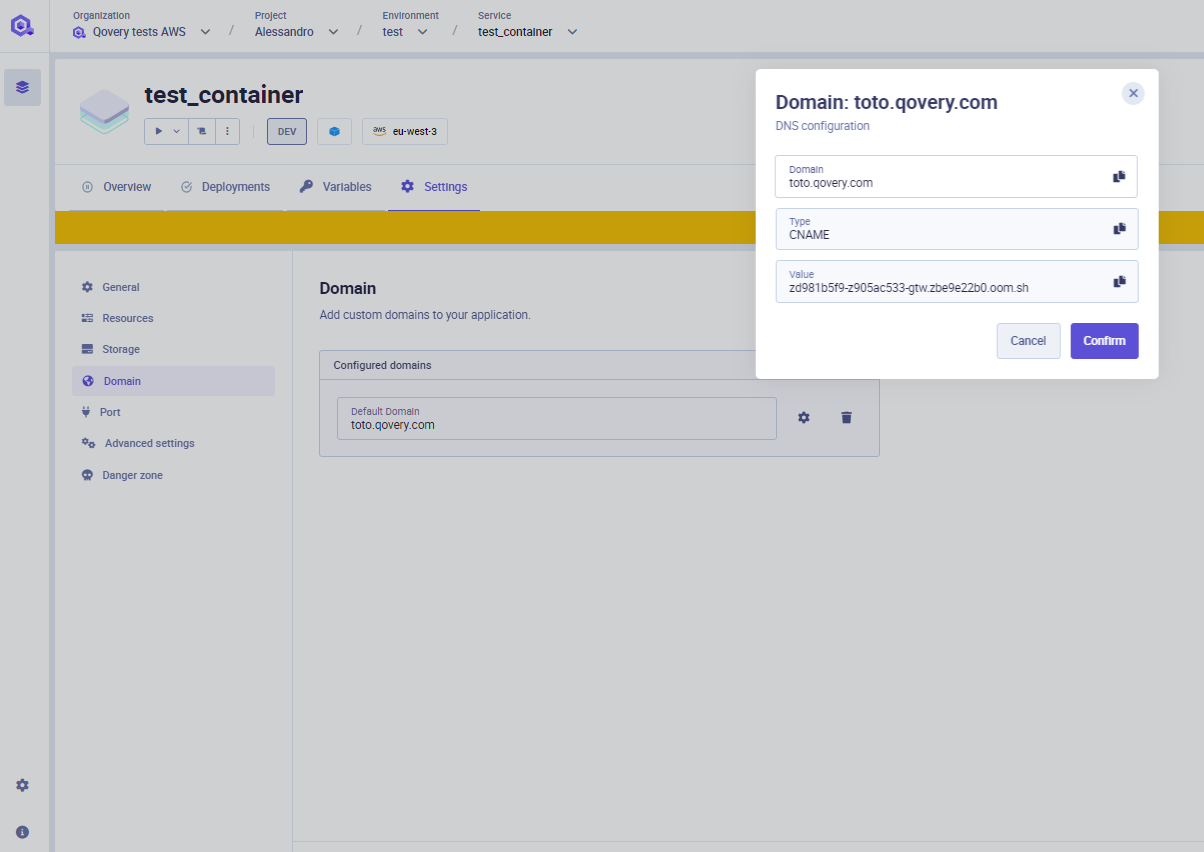
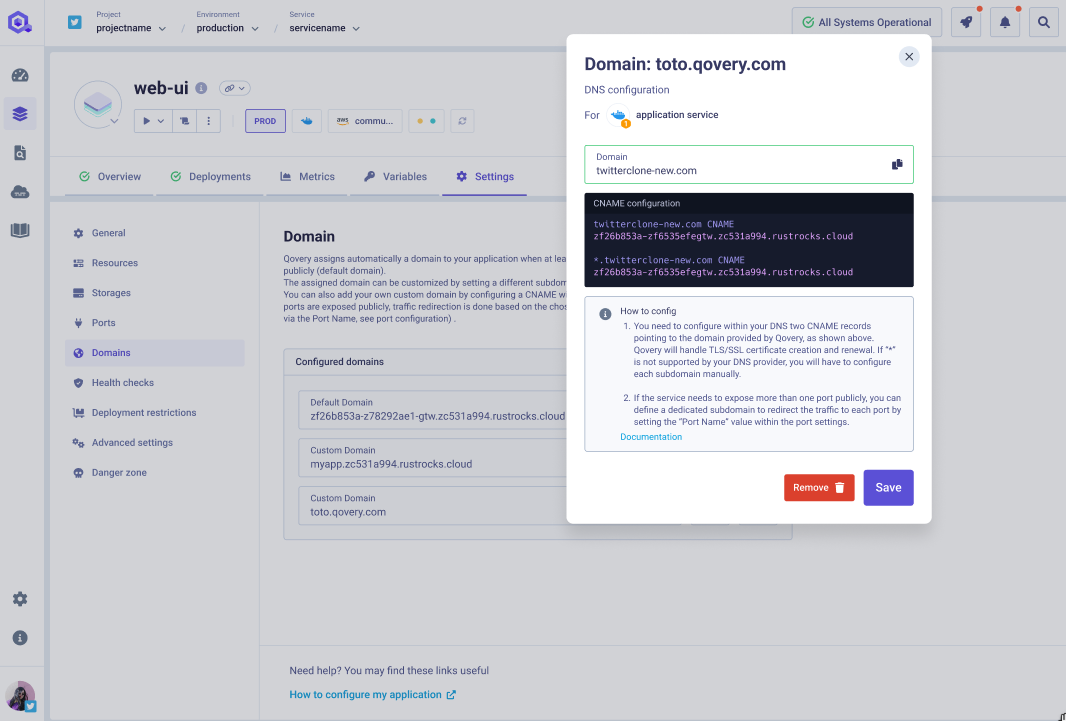
rewritten section adding protocol, port name and more explanations

diff --git a/website/docs/using-qovery/configuration/application.md b/website/docs/using-qovery/configuration/application.md
@@ -1,5 +1,5 @@
 ---
-last_modified_on: "2023-06-12"
+last_modified_on: "2023-07-07"
 title: "Application"
 description: "Learn how to configure your Application on Qovery"
 ---
@@ -340,22 +340,23 @@ Storage can be added only if the application has never been deployed before AND 
 
 Within this section you can define the port exposed by your application to the other services or even over the internet.
 You can edit the existing ports or declare new ones by specifying:
-- Application port: this is the port exposed internally by your application for the other services. Kubernetes will use this port to verify the readiness and liveness of your application via regular probes.
+- Application port: this is the port exposed internally by your application for the other services. 
 - Publicly exposed: it allows you to expose over the public network your service. A public domain will be assigned to your application during the deployment (see [Domain section][docs.using-qovery.configuration.application#domains])
-- External port: it is the port that can be used to access this service over the internet (when exposed publicly). Today we support only the HTTPS and Websocket protocols (on the 443 port)
+- If Publicly Exposed is selected:
+  - Protocol: you can select the protocol used by your application : HTTP (for both standard HTTP or websocket communications), gRPC
+  - External port: it is the port that can be used to access this service over the internet (when exposed publicly). Today we can only expose the service over the port 443 (default HTTP port) and cannot be changed.
+  - Port Name: it is the name assigned to the port. When multiple ports are exposed publicly, its value is used to route the traffic to the right port based on the called subdomain (which will contain the port name value). Since each port is exposed on the port 443, having a different subdomain is the only way to have multiple ports exposed over the internet. If not set, the default value is `p<portNumber>` (see [Domain section][docs.using-qovery.configuration.application#domains] for more information)
 
 <p align="center">
   <img src="/img/configuration/application/app-15.png" alt="Application Ports" />
 </p>
 
-<Alert type="info">
-Qovery determines the readiness of your service based on the availability of the declared port. If your application does not open this port within 10 minutes, the associated container will be shut down
-</Alert>
 
-#### Exposing Applications
-Please take note of the following information:
-- You can configure your application to use the **PORT** environment variable by adding the **PORT** on your application env variables page.
+#### Important Informations
+
+- Most of the Kubernetes Health Checks][docs.using-qovery.configuration.service-health-checks] are based on the port declared in this section. Make sure you declare the right port and that you configure the health checks properly.
 - Connections on public ports are automatically closed after 60 seconds. If you want to implement long living connection (like for websockets) please make sure to use the rigth ingress timeouts in the [advanced settings section][docs.using-qovery.configuration.advanced-settings#network-settings]
+- You can configure your application to use the **PORT** environment variable by adding the **PORT** on your application env variables page.
 - A Note on Listening IPs: It's best for your application to listen on `0.0.0.0:$PORT`. While most things work with `127.0.0.1` and `localhost`, some do not (NodeJS for example)
 
 ### Health Checks
@@ -364,50 +365,43 @@ To know more about how to configure your Liveness and Readiness probes, have a l
 
 ### Domains
 
-`Domain` section of your application configuration allows you to define a custom domain for your application. By default a domain is assigned to your application if a port has been set to be publicly exposed. This assigned domain will have the following pattern:  `z<SERVICE_ID>-z<ROUTER_ID>-gtw.<ASSIGNED_CLUSTER_DOMAIN>` , where:
-- SERVICE_ID : is the first 8 letters of the id of your service
-- ROUTER_ID : it is an internal id to identify the router (nginx configuration) of your application
-- ASSIGNED_CLUSTER_DOMAIN: it is the domain assigned to your cluster. Any service deployed on this cluster will have the same assigned_cluster_domain
+The `Domain` section allows you to define a custom domain for your application. 
 
-domain example: `zdf72de72-z709e1a88-gtw.za8ad0657.bool.sh`
+For each port publicly exposed, a domain is automatically assigned by Qovery to your application. Qovery will manage for you the networking and the TLS configuration for these domains. 
 
-**Special Case - Preview Environment**: if the preview environment feature is activated, the created services will have an additional friendly domain following this format `prId-srvName-envSourceName.cluster_domain` where:
+domain example: `p80-zdf72de72-z709e1a88-gtw.za8ad0657.bool.sh`
+
+**Special Case - Preview Environment** 
+For each port exposed publicly, an additional domain will be created with the following pattern `portName-prId-srvName-envSourceName.cluster_domain`:
+- portName: is the port name, as explained above
 - prID: is the id of the PR that has generated the preview environment
 - srvName: is the name of the service
 - envSourceName: is the name of the blueprint environment that has created the current preview environment
 
-domain example: `123-frontend-blueprint.za8ad0657.bool.sh`
+domain example: `p80-123-frontend-blueprint.za8ad0657.bool.sh`
 
-If you want to customize the url assigned to your application press the `Add Domain` button. 
+Note:
+- each service deployed on the same cluster will have the same root domain assigned (example: `za8ad0657.bool.sh`)
+- the first characters of the domain assigned to the application is based on the portName given to the port (See the [port section](#ports)
+- a default domain (without the portName) is assigned to the `default port`(See the [port section](#ports)). Example `zdf72de72-z709e1a88-gtw.za8ad0657.bool.sh`
+
+If you want to customize the domain assigned to your application press the `Add Domain` button. 
 
 <p align="center">
   <img src="/img/configuration/application/app-16.png" alt="Application Domains" />
 </p>
 
-<Alert type="info">
-
-This configuration is removed every time the environment is cloned in order to avoid domain collision.
-
-</Alert>
-
-You can use this section to either assign a specific sub-domain or either assign a completely new domain via a CNAME.
-
-#### Configuring a custom sub-domain
-You can specify a custom sub-domain as long as it belongs to the assigned cluster domain (see above). 
-Example: 
-- your current domain is zdf72de71-z709e1a85-gtw.za8ad0659.bool.sh (so your assigned cluster domain is `za8ad0659.bool.sh`)
-- you can enter a new custom domain `myfrontend-za8ad0659.bool.sh` (since it is a subdomain of the cluster domain)
-
-The application will now be accessible from both the default and the new custom domain
+In this section, you can assign your custom domain via CNAME or just change the sub-domain assigned to your service.
 
 <Alert type="info">
 
-Qovery does not check collision in the domain declaration. make sure you assign a subdomain that
+This configuration will be **automatically removed** on every cloned environment or preview environment in order to avoid domain collision.
 
 </Alert>
 
 #### Configuring a domain via CNAME
-After setting up your custom domain, you'll see a `Value` that you need to set up as a `CNAME` record in your domain registrar.
+
+You can configure your DNS by adding a `CNAME` record so that your app will be accessible through your custom domain. Qovery will handle for you the network configuration and the TLS certificate.
 
 <Alert type="info">
 
@@ -415,7 +409,20 @@ After setting up your custom domain, you'll see a `Value` that you need to set u
 
 </Alert>
 
-Setting up the `CNAME` on the domain provider side will make your app accessible through your custom domain on Qovery. The app will still be accessible through the default assigned domain.
+#### Change the assigned sub-domain
+You can specify a different sub-domain for your application as long as it belongs to the assigned cluster domain (see above). 
+Example: 
+- your current domain is zdf72de71-z709e1a85-gtw.za8ad0659.bool.sh (so your assigned cluster domain is `za8ad0659.bool.sh`)
+- you can enter a new custom domain `myfrontend.za8ad0659.bool.sh` (since it is a subdomain of the cluster domain)
+
+The application will now be accessible from both the default and the new custom domain.
+
+<Alert type="info">
+
+Qovery does not check collision in the domain declaration. Make sure you assign a unique subdomain within your cluster.
+
+</Alert>
+
 
 ## Connecting to a database
 To know how to access your database from your application, [have a look at the database section][docs.using-qovery.configuration.environment-variable#connecting-to-a-database].
@@ -475,6 +482,7 @@ In the application overview, click on the `3 dots` button and remove the applica
 [docs.using-qovery.configuration.organization.container-registry]: /docs/using-qovery/configuration/organization/container-registry/
 [docs.using-qovery.configuration.organization.git-repository-access]: /docs/using-qovery/configuration/organization/git-repository-access/
 [docs.using-qovery.configuration.project]: /docs/using-qovery/configuration/project/
+[docs.using-qovery.configuration.service-health-checks]: /docs/using-qovery/configuration/service-health-checks/
 [docs.using-qovery.deployment.logs#live-logs]: /docs/using-qovery/deployment/logs/#live-logs
 [docs.using-qovery.deployment]: /docs/using-qovery/deployment/
 [docs.using-qovery.interface.cli]: /docs/using-qovery/interface/cli/

diff --git a/website/guides/getting-started/setting-custom-domain.md b/website/guides/getting-started/setting-custom-domain.md
@@ -1,5 +1,5 @@
 ---
-last_modified_on: "2023-04-19"
+last_modified_on: "2023-07-07"
 $schema: "/.meta/.schemas/guides.json"
 title: Custom domain
 description: How to set and use your own domain
@@ -47,12 +47,27 @@ learn how to set up your domains on Qovery!
 </div>
 
 </li>
+<li>
+
+### Configure your DNS
+
+Configure your DNS by adding a CNAME record pointing to the domain provided by Qovery in the previous step
+
+If you have multiple public ports (or you want to have them in the future), make sure you add a CNAME for both yourdomain.com and *.yourdomain.com. 
+
+In this way:
+- your application default port will be accessible via the domain `yourdomain.com` or by a subdomain equal to the port name (portNameA.yourdomain.com). 
+- the other application public port will be accessible via a subdomain equal to the portName (portNameB.yourdomain.com). 
+
+See the [port setup of your application][docs.using-qovery.configuration.application#ports] for more information on the port name setup.
+
+</li>
 
 <li>
 
 ### Your domain is ready
 
-You need to **restart** your app to make your custom domain available.
+You need to **restart** your app to use your custom domain on your application.
 
 </li>
 
@@ -62,4 +77,5 @@ You need to **restart** your app to make your custom domain available.
 If you run into any trouble, [find us on Discord][urls.qovery_chat]. Our team and the community will be glad to help out.
 
 
+[docs.using-qovery.configuration.application#ports]: /docs/using-qovery/configuration/application/#ports
 [urls.qovery_chat]: https://discord.qovery.com

diff --git a/website/docs/using-qovery/troubleshoot.md b/website/docs/using-qovery/troubleshoot.md
@@ -1,5 +1,5 @@
 ---
-last_modified_on: "2023-05-27"
+last_modified_on: "2023-07-07"
 title: Troubleshoot
 description: "Everything you need to troubleshoot your application with Qovery"
 sidebar_label: hidden
